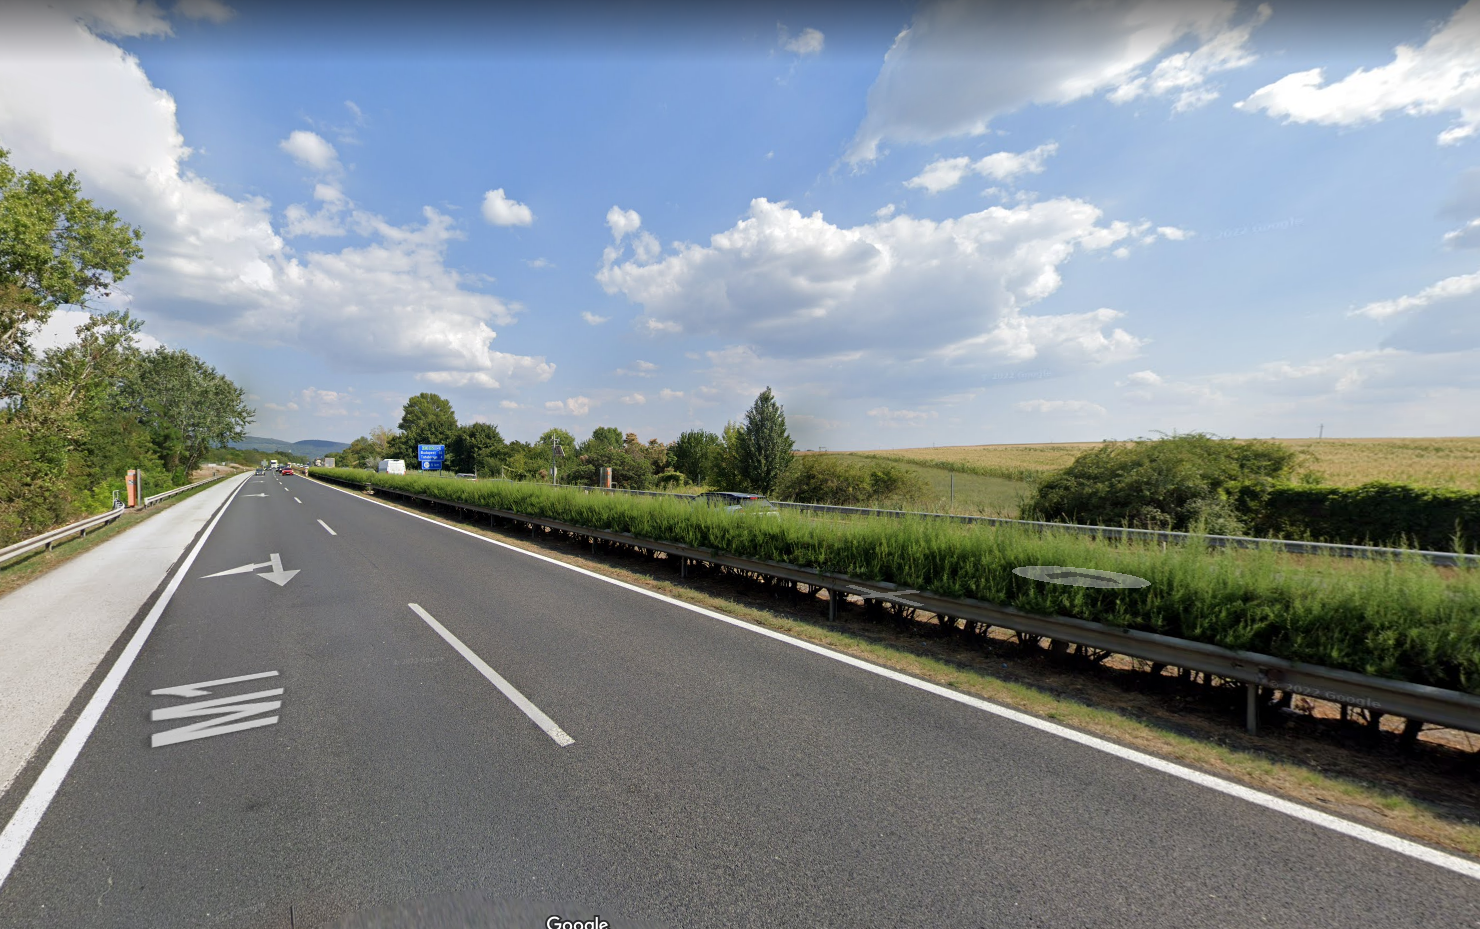
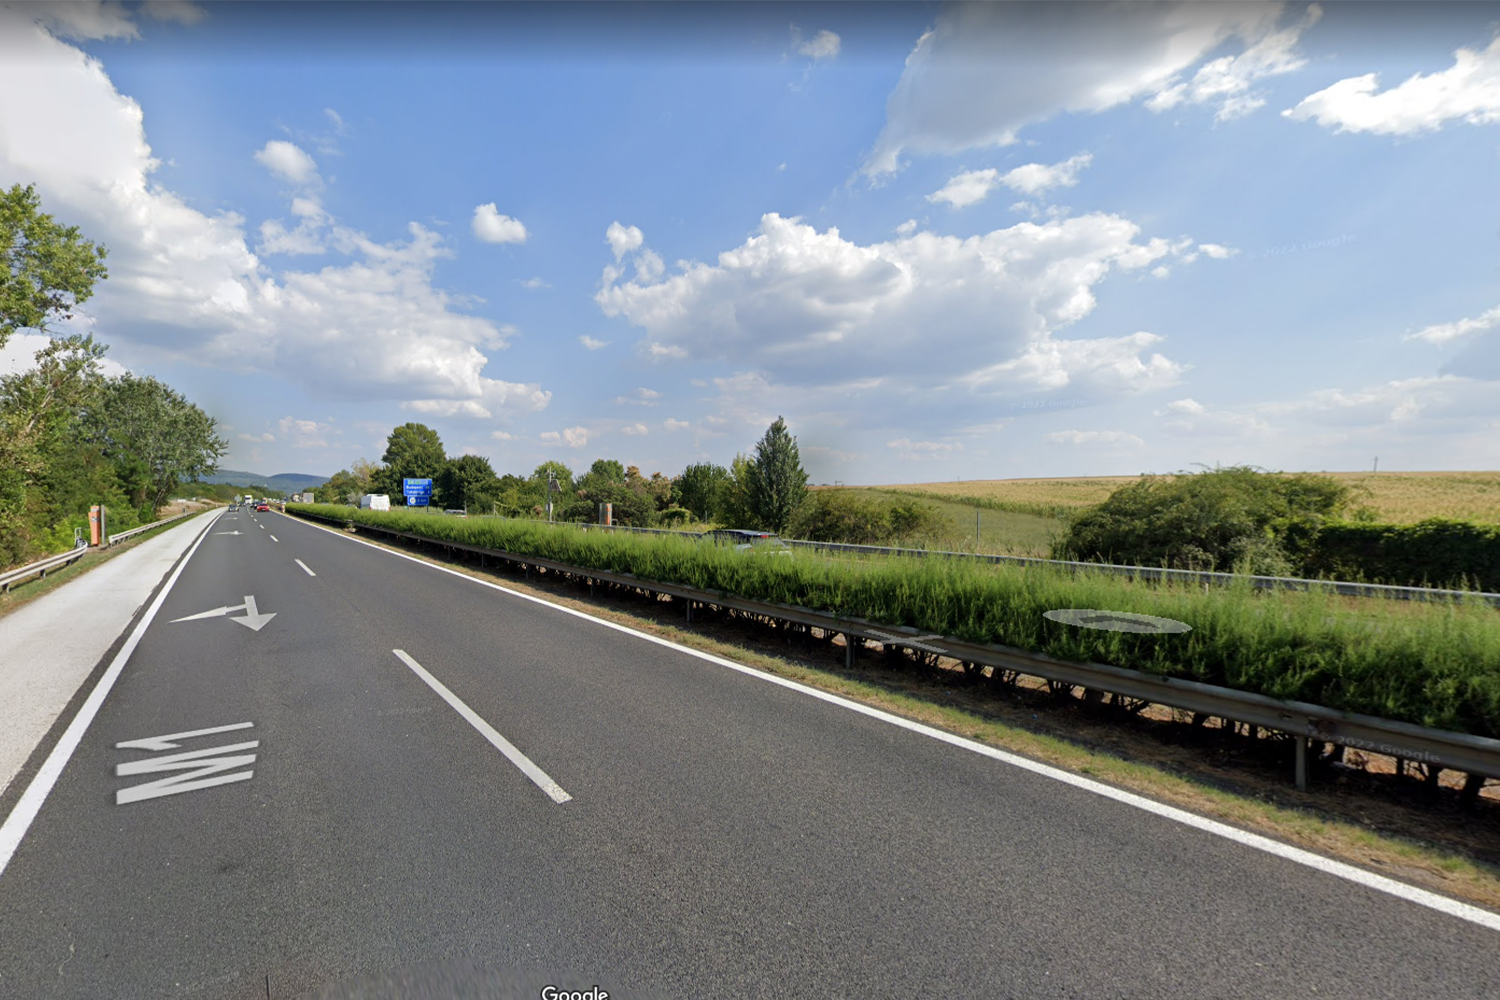
általános képek felbontását 1500x1000-ra váltottam

diff --git a/portugal.html b/portugal.html
@@ -103,10 +103,10 @@
        
         <div class="carousel-inner">
           <div class="carousel-item active">
-            <img src="általános kép/portugal 1.jpeg" alt="Portugália 1" class="zoomD rounded center">
+            <img src="általános kép/portugal 1.png" alt="Portugália 1" class="zoomD rounded center">
           </div>
           <div class="carousel-item">
-            <img src="általános kép/portugal 2.jpg" alt="Portugália 2" class="zoomD rounded center">
+            <img src="általános kép/portugal 2.png" alt="Portugália 2" class="zoomD rounded center">
           </div>
         </div>
       
@@ -118,14 +118,6 @@
           <span class="carousel-control-next-icon"></span>
         </button>
       </div>
-
-
-
-
-
-
-
-
 
 
     <br />

diff --git a/Ausztria.html b/Ausztria.html
@@ -93,10 +93,10 @@
         
         <div class="carousel-inner">
           <div class="carousel-item active">
-            <img src="általános kép/Ausztria 1.jpg" alt="Ausztria" class="zoomD rounded center">
+            <img src="általános kép/Ausztria 1.png" alt="Ausztria" class="zoomD rounded center">
           </div>
           <div class="carousel-item">
-            <img src="általános kép/Ausztria 3.jpg" alt="Ausztria" class="zoomD rounded center">
+            <img src="általános kép/Ausztria 2.png" alt="Ausztria" class="zoomD rounded center">
           </div>
         </div>
       
@@ -108,15 +108,6 @@
           <span class="carousel-control-next-icon"></span>
         </button>
       </div>
-
-
-
-
-
-
-
-
-
 
     <br />
     <h2>ABC</h2>

diff --git a/Németország.html b/Németország.html
@@ -106,10 +106,10 @@
         
         <div class="carousel-inner">
           <div class="carousel-item active">
-            <img src="általános kép/germany 1.jpg" alt="Németország 1" class="zoomD rounded center">
+            <img src="általános kép/germany 1.png" alt="Németország 1" class="zoomD rounded center">
           </div>
           <div class="carousel-item">
-            <img src="általános kép/germany 2.jpg" alt="Németország 1" class="zoomD rounded center">
+            <img src="általános kép/germany 2.png" alt="Németország 1" class="zoomD rounded center">
           </div>
         </div>
       

diff --git a/Romania.html b/Romania.html
@@ -90,10 +90,10 @@
         
         <div class="carousel-inner">
           <div class="carousel-item active">
-            <img src="általános kép/Románia 1.jpg" alt="Románia" class="zoomD rounded center">
+            <img src="általános kép/Románia 1.png" alt="Románia" class="zoomD rounded center">
           </div>
           <div class="carousel-item">
-            <img src="általános kép/Románia 2.jpg" alt="Románia" class="zoomD rounded center">
+            <img src="általános kép/Románia 2.png" alt="Románia" class="zoomD rounded center">
           </div>
         </div>
       

diff --git a/belgium.html b/belgium.html
@@ -276,14 +276,14 @@
       <div class="carousel-inner">
         <div class="carousel-item active">
           <img
-            src="általános kép/belgium 2.jpg"
+            src="általános kép/belgium 2.png"
             alt="Belgium 1"
             class="zoomD rounded center"
           />
         </div>
         <div class="carousel-item">
           <img
-            src="általános kép/belgium 1.jpg"
+            src="általános kép/belgium 1.png"
             alt="Belgium 2"
             class="zoomD rounded center"
           />
